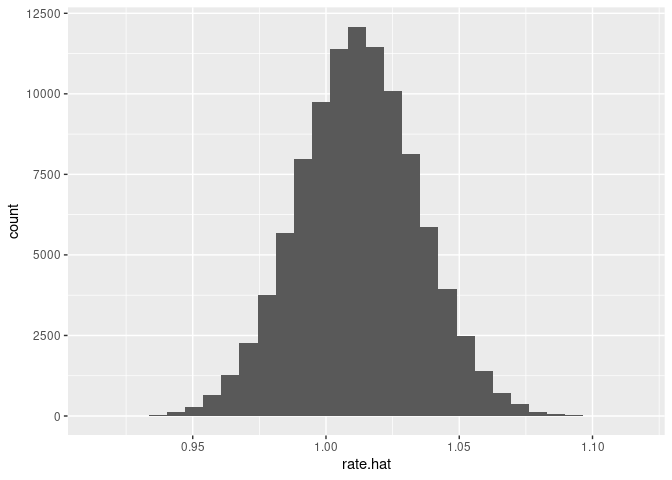
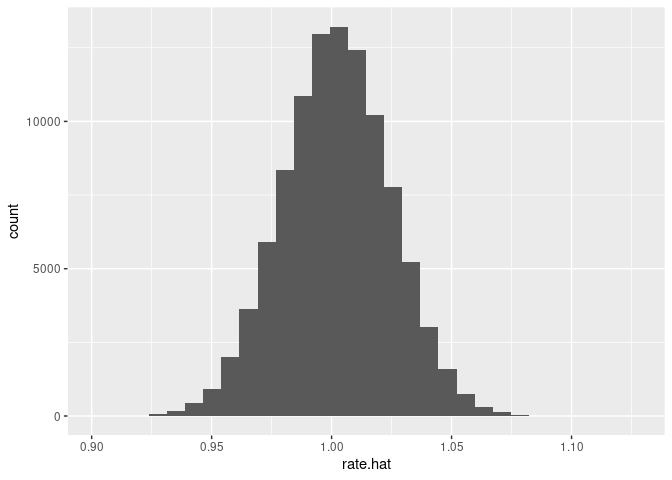
updates

diff --git a/README.md b/README.md
@@ -19,41 +19,84 @@ You can install the development version of `algebraic.mle` from
 ``` r
 # install.packages("devtools")
 devtools::install_github("queelius/algebraic.mle")
-#> Skipping install of 'algebraic.mle' from a github remote, the SHA1 (8ed1f6f5) has not changed since last install.
-#>   Use `force = TRUE` to force installation
 ```
 
 ## Example: MLE of rate parameter in exponential distribution
 
-Suppose we have a sample of *n* = 50 draws from EXP (*λ*=1).
+Consider an exponentially distributed random variable
+*X*<sub>*i*</sub> ∼ EXP (*λ*=1) and we draw a random sample from it:
 
 ``` r
 library(stats)
-n = 2000
-rate = 1
-x <- stats::rexp(n,rate)
-head(x)
-#> [1] 1.39230914 0.54734058 0.07918932 0.20741784 1.47882354 0.24072950
+library(tidyverse)
+#> ── Attaching packages ─────────────────────────────────────── tidyverse 1.3.1 ──
+#> ✓ ggplot2 3.3.5     ✓ purrr   0.3.4
+#> ✓ tibble  3.1.6     ✓ dplyr   1.0.7
+#> ✓ tidyr   1.1.4     ✓ stringr 1.4.0
+#> ✓ readr   2.1.1     ✓ forcats 0.5.1
+#> ── Conflicts ────────────────────────────────────────── tidyverse_conflicts() ──
+#> x dplyr::filter() masks stats::filter()
+#> x dplyr::lag()    masks stats::lag()
+n <- 1000
+rate <- 1
+x <- tibble(x=stats::rexp(n,rate))
 ```
 
-Then, we can estimate *λ* with:
+We have observed a sample of size *n* = 1000. We show some observations
+from this sample (data frame) with:
+
+``` r
+print(x)
+#> # A tibble: 1,000 × 1
+#>          x
+#>      <dbl>
+#>  1 0.283  
+#>  2 0.186  
+#>  3 1.73   
+#>  4 0.618  
+#>  5 0.00966
+#>  6 3.57   
+#>  7 2.42   
+#>  8 0.0681 
+#>  9 0.421  
+#> 10 1.03   
+#> # … with 990 more rows
+```
+
+We show a histogram of the sample, and a plot of the exponential
+function’s pdf, with:
+
+``` r
+library(ggplot2)
+ggplot(x, aes(x=x)) + geom_histogram(aes(y=..density..),alpha=.2) +
+    xlim(0,6) + 
+    geom_function(fun=dexp)
+#> `stat_bin()` using `bins = 30`. Pick better value with `binwidth`.
+#> Warning: Removed 2 rows containing non-finite values (stat_bin).
+#> Warning: Removed 2 rows containing missing values (geom_bar).
+```
+
+<img src="man/figures/README-unnamed-chunk-5-1.png" width="100%" />
+
+If we would like to estimate *λ*, we can do so using maximum likelihood
+estimation as implemented by the `algebraic.mle` package:
 
 ``` r
 library(algebraic.mle)
-(rate.hat <- mle_exp(x))
+(rate.hat <- mle_exp(x$x))
 #> $theta.hat
-#> [1] 1.012049
+#> [1] 1.025417
 #> 
 #> $info
 #>          [,1]
-#> [1,] 1952.659
+#> [1,] 951.0412
 #> 
 #> $sigma
-#>              [,1]
-#> [1,] 0.0005121221
+#>             [,1]
+#> [1,] 0.001051479
 #> 
 #> $sample_size
-#> [1] 2000
+#> [1] 1000
 #> 
 #> attr(,"class")
 #> [1] "mle_exp"   "mle"       "estimator"
@@ -63,69 +106,95 @@ We can show the point estimator with:
 
 ``` r
 point(rate.hat)
-#> [1] 1.012049
+#> [1] 1.025417
 ```
 
-We can show the variance with:
+We can show the Fisher information and variance-covariance matrices
+with:
 
 ``` r
+fisher_info(rate.hat)
+#>          [,1]
+#> [1,] 951.0412
 vcov(rate.hat)
-#>              [,1]
-#> [1,] 0.0005121221
+#>             [,1]
+#> [1,] 0.001051479
 ```
 
-If `rate.hat` had been a vector, `vcov` would have output a
-variance-covariance martix.
+(If `rate.hat` had been a vector, `vcov` would have output a
+variance-covariance matrix. We may consider the above outputs 1 × 1
+matrices.)
 
-We can sample from *λ̂* with:
+We can show the confidence interval with:
 
 ``` r
-library(ggplot2)
-library(tidyverse)
-#> ── Attaching packages ─────────────────────────────────────── tidyverse 1.3.1 ──
-#> ✓ tibble  3.1.6     ✓ dplyr   1.0.7
-#> ✓ tidyr   1.1.4     ✓ stringr 1.4.0
-#> ✓ readr   2.1.1     ✓ forcats 0.5.1
-#> ✓ purrr   0.3.4
-#> ── Conflicts ────────────────────────────────────────── tidyverse_conflicts() ──
-#> x dplyr::filter() masks stats::filter()
-#> x dplyr::lag()    masks stats::lag()
-library(gt)
-
-#tibble(algebraic.mle::distr(rate.hat
-#test
-
-
-rate.sampler <- sampler(rate.hat)
-data <- tibble(rate.hat=rate.sampler(100000))
-knitr::kable(head(data))
+confint(rate.hat)
+#>       2.5 %   97.5 %
+#> 1 0.9720797 1.078753
 ```
 
-|  rate.hat |
-|----------:|
-| 1.0134812 |
-| 1.0348350 |
-| 0.9845482 |
-| 1.0325074 |
-| 1.0023182 |
-| 1.0296314 |
+### Sampling distribution of the MLE
+
+In general, to estimate the sampling distribution, we generate
+*B* = 10000 samples (of size 1000) and their corresponding estimators,
+*θ̂*<sup>(1)</sup>, …, *θ̂*<sup>(*B*)</sup>. We observe the empirical
+sampling distribution of *θ̂* with:
 
 ``` r
-ggplot(data, aes(x=rate.hat)) + geom_histogram()
-#> `stat_bin()` using `bins = 30`. Pick better value with `binwidth`.
+B <- 1000
+data0 <- numeric(length=B)
+for (i in 1:B)
+{
+    x <- stats::rexp(n,rate)
+    data0[i] <- point(mle_exp(x))
+}
+ggplot(tibble(rate.hat=data0), aes(x=rate.hat)) +
+    geom_histogram(alpha=.2,bins=50) +
+    xlim(.89,1.11) + 
+    geom_function(fun=rnorm,sigma=sqrt(n/rate))
+#> Warning: Ignoring unknown parameters: sigma
+#> Warning: Removed 1 rows containing non-finite values (stat_bin).
+#> Warning: Removed 2 rows containing missing values (geom_bar).
 ```
 
-<img src="man/figures/README-unnamed-chunk-7-1.png" width="100%" />
+<img src="man/figures/README-unnamed-chunk-10-1.png" width="100%" />
+
+We overlay the theoretical normal density plot.
+
+Normally, we do not have *B* samples, and if we did, we would
+incorporate all *B* samples into one sample, since the larger sample
+would contain more Fisher information about *θ*.
+
+However, a nice property of MLEs is that, asymptotically, they converge
+to a normal distribution with a mean given by the true parameter and a
+variance-covariance given by the inverse of the Fisher information
+matrix, i.e., *λ̂* ∼ *N*(*λ*,*I*<sup>−1</sup>(*λ*)) where *I* is the
+Fisher information matrix. In this case, it is
+*I*(*λ*) = *n*/*λ*<sup>2</sup>. We do not know *λ*, but we may estimate
+it from a sample, and thus we may approximate the sampling distribution
+of *λ̂* with *N*(*λ̂*,*I*<sup>−1</sup>(*λ̂*)).
+
+We sample from the asymptotic distribution of *λ̂* with:
 
 ``` r
-
-#tibble(x=data) %>% ggplot(aes(x=x))
-
-#df <- tibble(x=rrate.mle(2000))
-#df
-#exp2 <- mle_exp(df$x)
-#print(exp2)
+data1 <- sampler(rate.hat)(B)
 ```
+
+Now, we wish to compare the empirical sampling distribution, `data0`,
+with the empirical asymptotic distribution, `data1`, along with its
+probability density plot:
+
+``` r
+data <- data.frame(values=c(data0,data1), group=c(rep("empirical",B),rep("asymptotic",B)))
+
+ggplot(data,aes(x=values,fill=group)) +
+    geom_histogram(aes(y=..density..),position="identity", alpha=0.2, bins=50) +
+    geom_density(alpha=.1)
+```
+
+<img src="man/figures/README-unnamed-chunk-12-1.png" width="100%" />
+
+### Invariance property of the MLE
 
 ## Sum of maximum likelihood estimators
 
